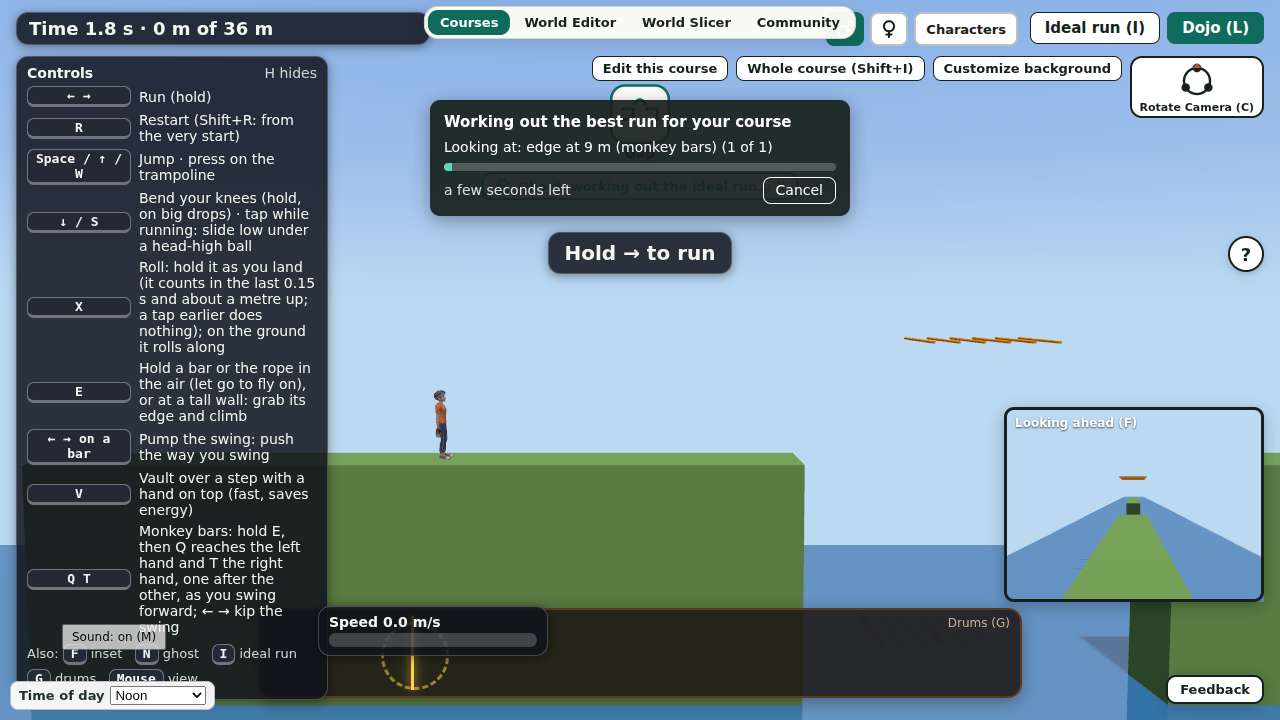
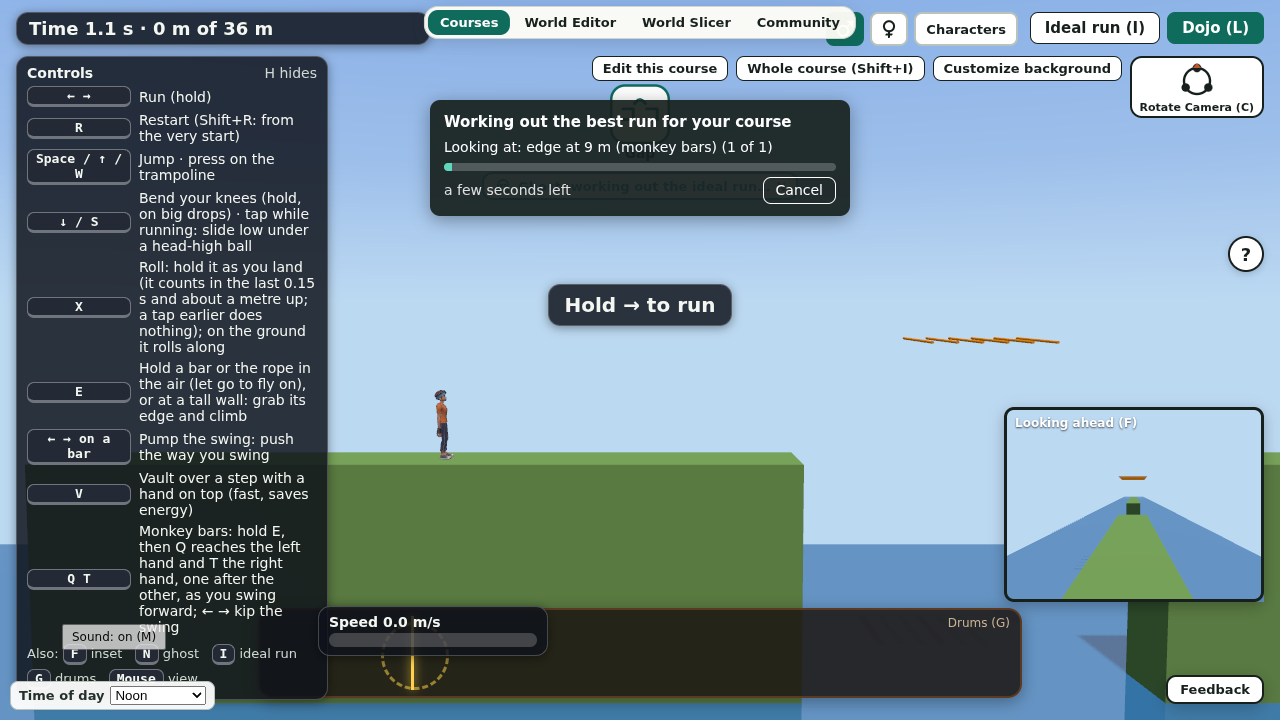
Pole drum says Hold E to climb the pole, fork drums always on, toasts as N-back with N=2
- The drum lane draws both ways of a fork without ?fork=1; the pole drum carries its words on a small card
- Toasts: current message in the main slot, the previous 2 dimmed above it (pure logic in nback.ts, tests)
- A toast takes the main slot over the hint, so nothing piles up below; history rows no longer restart their slide each frame

Part of CC-133

diff --git a/src/ui/hint-history.ts b/src/ui/hint-history.ts
@@ -1,30 +1,38 @@
-// The hint history: the current hint stays where it is; the hints before it sit just under it in the sky band (CC-133), dimmer the older they are, then fade away.
-// It only reads the hint text; it never changes the hint.
+// The message history, drawn (CC-133): the 2 messages before the current one sit dimmed above it in the sky band, the older the dimmer (the N-back logic is in nback.ts).
+// It only reads the message text; it never changes the hint. The two rows keep their space even when empty, so the main slot never jumps.
 import { toastBand } from './toast-band';
+import { nbackPush, nbackRows, nbackStart, NBACK_N, type NBackState } from './nback';
 
 export interface HintHistory { update(current: string, hintEl: HTMLElement, nowMs: number): void }
-const KEEP = 1, LIFE_MS = 9000, DIM = [0.6]; // one older line, one row tall: the band must stay above the runner's head
+export const HISTORY_ROW_PX = 22, HISTORY_GAP_PX = 2;
+export const HISTORY_HEIGHT_PX = NBACK_N * HISTORY_ROW_PX + (NBACK_N - 1) * HISTORY_GAP_PX; // the space the dimmed rows keep above the main slot
 
 export function createHintHistory(parent: HTMLElement = toastBand()): HintHistory {
+  const style = document.createElement('style');
+  style.textContent = '@keyframes nbin{from{opacity:0;transform:translateY(24px)}to{transform:translateY(0)}}';
+  document.head.append(style);
   const box = document.createElement('div');
   box.id = 'toast-history';
-  box.style.cssText = 'order:2;display:flex;flex-direction:column;align-items:center;gap:4px;pointer-events:none;font:600 15px system-ui,sans-serif;color:#10141c;max-width:100%';
+  box.style.cssText = `order:-1;display:flex;flex-direction:column;justify-content:flex-end;align-items:center;gap:${HISTORY_GAP_PX}px;height:${HISTORY_HEIGHT_PX}px;overflow:hidden;pointer-events:none;font:600 13px system-ui,sans-serif;color:#10141c;max-width:100%;width:100%`;
   parent.append(box);
-  let shown = '';
-  let old: { text: string; at: number }[] = []; // newest last
+  const nodes = new Map<number, HTMLElement>();
+  let s: NBackState = nbackStart();
   return {
     update(current, _hintEl, nowMs) {
-      if (current !== shown) {
-        if (shown) old.push({ text: shown, at: nowMs });
-        old = old.slice(-KEEP);
-        shown = current;
+      s = nbackPush(s, current, nowMs);
+      const rows = nbackRows(s, nowMs); // oldest first: the oldest is the top row
+      const keep = new Set(rows.map((r) => r.id));
+      for (const [id, n] of nodes) if (!keep.has(id)) { n.remove(); nodes.delete(id); }
+      for (const r of rows) {
+        let n = nodes.get(r.id);
+        if (!n) {
+          n = document.createElement('div'); n.textContent = r.text;
+          n.style.cssText = `background:#fffc;border-radius:8px;padding:0 12px;height:${HISTORY_ROW_PX}px;line-height:${HISTORY_ROW_PX}px;white-space:nowrap;overflow:hidden;text-overflow:ellipsis;max-width:100%;text-align:center;box-sizing:border-box;flex:none;animation:nbin .35s ease-out;transition:opacity .35s`;
+          nodes.set(r.id, n);
+          box.append(n); // a new row is always the newest: it joins at the bottom, just above the main slot (never re-appended, or its slide would restart each frame)
+        }
+        n.style.opacity = String(r.opacity);
       }
-      old = old.filter((o) => nowMs - o.at < LIFE_MS && o.text !== current);
-      const rows = old.slice().reverse(); // nearest the current first
-      if (box.childElementCount !== rows.length || Array.from(box.children).some((c, i) => c.textContent !== rows[i].text)) {
-        box.replaceChildren(...rows.map((o) => { const d = document.createElement('div'); d.textContent = o.text; d.style.cssText = 'background:#fffc;border-radius:8px;padding:4px 12px;white-space:nowrap;overflow:hidden;text-overflow:ellipsis;max-width:100%;text-align:center'; return d; }));
-      }
-      Array.from(box.children).forEach((c, i) => { (c as HTMLElement).style.opacity = String(DIM[i] * Math.max(0.3, 1 - (nowMs - rows[i].at) / LIFE_MS)); });
     },
   };
 }

diff --git a/tests/toast-band.test.ts b/tests/toast-band.test.ts
@@ -2,10 +2,12 @@
 import { describe, expect, it } from 'vitest';
 import { readFileSync } from 'node:fs';
 import * as THREE from 'three';
+import { HISTORY_HEIGHT_PX } from '../src/ui/hint-history';
 import { toastBandBox, TOAST_TOP, TOAST_BAND_BOTTOM } from '../src/ui/toast-band';
 
 const W = 1280, H = 720;
 const box = toastBandBox(W, H);
+const lineBox = { ...box, bottom: box.top + HISTORY_HEIGHT_PX + 6 + 42 }; // the dimmed rows, the band gap and a one-line message (about 42 px)
 
 // The side camera (src/modes/course/camera.ts): target 5 m ahead of the runner and 2.5 m above his feet, 25 m back and 1.5 m up (scaled by the zoom), 40 degree view.
 // `lag`: how far the camera's height still trails the runner's (it eases with 0.15 s, so a quick rise leaves it behind).
@@ -25,13 +27,17 @@ const meets = (a: { left: number; right: number; top: number; bottom: number }, 
 describe('toast band', () => {
   it('sits in the top band of the window at 1280 x 720', () => {
     expect(box.top).toBeLessThanOrEqual(0.34 * H); // the top third at most: the strip and the ghost chip take the first 225 px
-    expect(box.bottom).toBeLessThanOrEqual(0.44 * H + 1e-9);
+    expect(box.bottom).toBeLessThanOrEqual(0.5 * H + 1e-9);
     expect(box.top).toBeGreaterThanOrEqual(226); // under the strip and the ghost chip (it ends at 225)
     expect(box.left).toBeGreaterThan(330); // right of the controls card (it ends at about x = 328)
     expect(box.right).toBeLessThan(W - 250); // left of the buttons
   });
   it('is centred and never wider than the window', () => {
     for (const vw of [1280, 1024]) { const b = toastBandBox(vw, 720); expect((b.left + b.right) / 2).toBeCloseTo(vw / 2); expect(b.right - b.left).toBeLessThanOrEqual(vw * 0.92 + 1e-9); }
+  });
+  it('keeps room for the 2 dimmed rows above the main slot, which then ends above the runner', () => {
+    const mainTop = box.top + HISTORY_HEIGHT_PX + 6, twoLines = 2 * 25 + 16;
+    expect(mainTop + twoLines).toBeLessThanOrEqual(box.bottom + 1e-9);
   });
   it('is one shared place: the hint, the toast stack and the hint history all join the band, none sets its own position', () => {
     for (const f of ['src/modes/course/hud.ts', 'src/ui/toast-stack.ts', 'src/ui/hint-history.ts', 'src/modes/course/say.ts', 'src/ui/bars-keys.ts']) {
@@ -42,7 +48,8 @@ describe('toast band', () => {
     expect(readFileSync('src/ui/hint-history.ts', 'utf8')).toContain('toastBand()');
     expect(readFileSync('src/modes/course/chrome.ts', 'utf8')).toContain('toastBand().append(d.hud.hint)');
     expect(TOAST_TOP).toMatch(/px$/);
-    expect(TOAST_BAND_BOTTOM).toBeLessThanOrEqual(0.44);
+    expect(TOAST_BAND_BOTTOM).toBeLessThanOrEqual(0.5);
+    expect(readFileSync('src/ui/hint-history.ts', 'utf8')).toContain('nbackPush'); // the history is drawn from the pure N-back logic
   });
   const states: [string, number, { zoom?: number; lag?: number; pitch?: number }][] = [
     ['on the ground, normal view', 0, {}],
@@ -57,7 +64,9 @@ describe('toast band', () => {
   for (const [name, y, o] of states) {
     it(`never meets the runner: ${name}`, () => {
       const r = runnerBox(y, o);
-      expect(meets(box, r), JSON.stringify({ box, r })).toBe(false);
+      expect(meets(lineBox, r), JSON.stringify({ lineBox, r })).toBe(false); // the two dimmed rows and a one-line message
+      if (!/camera low|catching up/.test(name)) expect(meets(box, r), JSON.stringify({ box, r })).toBe(false); // ... and a two-line message, except in the two extreme camera states
+
     });
   }
 });

diff --git a/tests/nback.test.ts b/tests/nback.test.ts
@@ -1,0 +1,53 @@
+// CC-133: the toasts are "N-back with N = 2": the message now in the main slot, the 2 before it dimmed above it.
+import { describe, expect, it } from 'vitest';
+import { nbackPush, nbackRows, nbackStart, NBACK_DIM, NBACK_LIFE_MS, NBACK_N } from '../src/ui/nback';
+
+const feed = (texts: string[], at0 = 0, step = 1000) => texts.reduce((s, t, i) => nbackPush(s, t, at0 + i * step), nbackStart());
+
+describe('N-back toasts (N = 2)', () => {
+  it('N is 2', () => expect(NBACK_N).toBe(2));
+  it('the first message sits in the main slot with nothing above it', () => {
+    const s = feed(['A']);
+    expect(s.current).toBe('A');
+    expect(nbackRows(s, 0)).toEqual([]);
+  });
+  it('a new message dims the current one and moves it up a slot', () => {
+    const s = feed(['A', 'B']);
+    expect(s.current).toBe('B');
+    expect(nbackRows(s, 1000).map((r) => [r.text, r.slot])).toEqual([['A', 1]]);
+  });
+  it('the previous 2 are kept, the oldest drops off, the new one takes the main slot', () => {
+    const s = feed(['A', 'B', 'C', 'D']);
+    expect(s.current).toBe('D');
+    expect(nbackRows(s, 3000).map((r) => [r.text, r.slot])).toEqual([['B', 2], ['C', 1]]); // top to bottom: the older one first
+  });
+  it('never more than N rows above the main slot, whatever arrives', () => {
+    const s = feed(Array.from({ length: 12 }, (_, i) => `m${i}`));
+    expect(nbackRows(s, 11000).length).toBeLessThanOrEqual(NBACK_N);
+  });
+  it('the older, the dimmer, and both dimmer than the main message (opacity 1)', () => {
+    const rows = nbackRows(feed(['A', 'B', 'C']), 2000);
+    const o = (slot: number) => rows.find((r) => r.slot === slot)!.opacity;
+    expect(o(2)).toBeLessThan(o(1));
+    expect(o(1)).toBeLessThan(1);
+    expect(NBACK_DIM[0]).toBeGreaterThan(NBACK_DIM[1]);
+  });
+  it('the same message again changes nothing, and a message that comes back is current, not also a dimmed copy', () => {
+    const s = feed(['A', 'B']);
+    expect(nbackPush(s, 'B', 5000)).toBe(s);
+    const back = nbackPush(s, 'A', 2000);
+    expect(back.current).toBe('A');
+    expect(nbackRows(back, 2000).map((r) => r.text)).toEqual(['B']);
+  });
+  it('an empty screen keeps the last message dimmed, then it fades away', () => {
+    const s = feed(['A', '']);
+    expect(s.current).toBe('');
+    expect(nbackRows(s, 1000).map((r) => r.text)).toEqual(['A']);
+    expect(nbackRows(s, 1000 + NBACK_LIFE_MS)).toEqual([]);
+  });
+  it('rows keep their id as they move up, so the view can slide them', () => {
+    const a = feed(['A', 'B']), b = nbackPush(a, 'C', 2000);
+    expect(nbackRows(b, 2000).find((r) => r.text === 'A')!.id).toBe(nbackRows(a, 1000)[0].id);
+    expect(nbackRows(b, 2000).find((r) => r.text === 'A')!.slot).toBe(2);
+  });
+});

diff --git a/src/ui/nback.ts b/src/ui/nback.ts
@@ -1,0 +1,31 @@
+// CC-133: the toasts show "N-back with N = 2": the message now is in the main slot, the 2 messages before it sit dimmed above it
+// (the older, the dimmer). A new message dims the one on screen and moves it up a slot; the oldest drops off; the new one takes the main slot.
+// Pure: time is passed in, so a test or the stepped clock decides when. The DOM view is in hint-history.ts.
+export const NBACK_N = 2;
+export const NBACK_LIFE_MS = 9000; // a dimmed message fades away this long after it was replaced
+export const NBACK_DIM = [0.62, 0.34]; // opacity of the newest and the older previous message
+
+export interface NBackItem { id: number; text: string; at: number }
+export interface NBackState { current: string; prev: NBackItem[]; nextId: number } // prev: oldest first
+
+export const nbackStart = (): NBackState => ({ current: '', prev: [], nextId: 1 });
+
+/** A message arrives (an empty text means nothing is on screen now). The same text again changes nothing. */
+export function nbackPush(s: NBackState, text: string, now: number): NBackState {
+  if (text === s.current) return s;
+  let prev = s.prev.filter((p) => p.text !== text); // a message that comes back is current again, not also a dimmed copy
+  let nextId = s.nextId;
+  if (s.current) { prev = [...prev.filter((p) => p.text !== s.current), { id: nextId++, text: s.current, at: now }]; }
+  return { current: text, prev: prev.slice(-NBACK_N), nextId };
+}
+
+export interface NBackRow { id: number; text: string; opacity: number; slot: number } // slot 1 = just above the main slot, 2 = the one above that
+
+/** The dimmed rows, top to bottom, with their opacity at time `now`; rows older than the life are gone. */
+export function nbackRows(s: NBackState, now: number): NBackRow[] {
+  const live = s.prev.filter((p) => now - p.at < NBACK_LIFE_MS);
+  return live.map((p) => {
+    const slot = s.prev.length - s.prev.indexOf(p); // 1 = newest
+    return { id: p.id, text: p.text, slot, opacity: NBACK_DIM[slot - 1] * Math.max(0.3, 1 - (now - p.at) / NBACK_LIFE_MS) };
+  });
+}

diff --git a/src/sim/drums.ts b/src/sim/drums.ts
@@ -8,6 +8,7 @@ import { newWorld, stepWorld, WALL_HOLD_TICKS } from './world';
 
 // The drum lane: where along the course the ideal run presses Space, so a player can see where to jump on any course,
 // including one built in the editor. It shows the line; it never grades the player's own presses.
+export const POLE_NOTE = 'Hold E to climb the pole'; // shown on the drum itself (CC-133)
 export interface Drum {
   x: number; // m along the course at the moment of the press
   note?: string; // a few words on the drum (the aim of a cannon)
@@ -50,7 +51,7 @@ export function drumsFor(course: CourseData, plan: Plan = course.plan ?? searchI
     if (w.mode !== 'wall') wallDrum = false;
     else if (!wallDrum && w.wall && w.wall.result.grabTick !== null && w.wall.index >= w.wall.result.grabTick - WALL_HOLD_TICKS) { wallDrum = true; drums.push({ x: w.runner.x, what: 'grab' }); }
     if (prevMode !== 'swing' && w.mode === 'swing') drums.push({ x: w.runner.x, what: 'grab' }); // E closes on the rope
-    if (prevMode !== 'polec' && w.mode === 'polec') drums.push({ x: w.runner.x, what: 'grab' }); // E closes on a standing pole (CC-133: the bulb lane of the fork starts with one)
+    if (prevMode !== 'polec' && w.mode === 'polec') drums.push({ x: w.runner.x, what: 'grab', note: POLE_NOTE }); // E closes on a standing pole (CC-133: the bulb lane of the fork starts with one)
     if (prevMode !== 'hang' && prevMode !== 'polec' && w.mode === 'hang') drums.push({ x: w.runner.x, what: 'grab' }); // E closes on the bar (from the top of a pole the hands are already closed)
     if (prevMode !== 'climb' && w.mode === 'climb') drums.push({ x: w.runner.x, what: 'grab' }); // E closes on a wall's edge
     if ((prevMode === 'hang' && w.mode !== 'hang') || (prevMode === 'swing' && w.mode !== 'swing')) drums.push({ x: w.runner.x, what: 'release' }); // both hands let go (a bar, or the rope: letting go of E, CC-245)

diff --git a/tests/obstacle-teaching.test.ts b/tests/obstacle-teaching.test.ts
@@ -4,7 +4,7 @@ import { describe, expect, it } from 'vitest';
 import { readFileSync, readdirSync, statSync } from 'node:fs';
 import { join } from 'node:path';
 import { TOASTS } from '../src/course/obstacles';
-import { drumsForPaths } from '../src/sim/drums';
+import { drumsForPaths, POLE_NOTE } from '../src/sim/drums';
 import { toastsFor, approachToast } from '../src/ui/approach-toast';
 import type { CourseData } from '../src/course/course';
 
@@ -75,5 +75,17 @@ describe('the fork course: both ways are taught', () => {
   it('does not turn a bench-way jump into a bar toast because a bulb-way bar is near', () => {
     const toasts = toastsFor(c, drums);
     expect(toasts.filter((q) => q.kind === 'lache')).toEqual([]);
+  });
+  it('the drum on the pole says what to do, on the bulb way only (the owner saw no instruction on the drums)', () => {
+    const pole = drums.filter((d) => d.what === 'grab' && d.note === POLE_NOTE);
+    expect(POLE_NOTE).toBe('Hold E to climb the pole');
+    expect(pole).toHaveLength(1);
+    expect(pole[0].route).toBeTruthy(); // it sits in the bulb way's row, not the shared middle row
+    expect(pole[0].x).toBeLessThan(c.climbPoles![0].x + 0.5);
+    expect(pole[0].x).toBeGreaterThan(c.climbPoles![0].x - 3);
+  });
+  it('the drum lane draws the fork drums whenever a course has a fork, not only behind ?fork=1', () => {
+    const src = readFileSync('src/modes/course/drums.ts', 'utf8');
+    expect(src).toMatch(/pathsOn\(params\) \|\| course\.branches\?\.length \? drumsForPaths\(course\)/);
   });
 });

diff --git a/src/modes/course.ts b/src/modes/course.ts
@@ -376,8 +376,9 @@ export async function startCourse(host: HTMLElement, course: CourseData = defaul
     views.update(st.world, facing);
     const reportOpen = panel.style.display !== 'none'; // CC-191: while a report is open the hint, the controls card, the ghost chip and the second Edit button step aside
     hint.textContent = reportOpen ? '' : hintFor(st.world);
-    hint.style.display = hint.textContent ? 'block' : 'none';
-    toastStack.update(hint.textContent ?? '', hint, performance.now());
+    const sayNow = reportOpen ? '' : sayer.current(); // CC-133: one message in the main slot: a toast takes it over the hint, and the hint comes back after
+    hint.style.display = hint.textContent && !sayNow ? 'block' : 'none';
+    toastStack.update(sayNow || (hint.textContent ?? ''), hint, performance.now());
     barsKeys.update(st.world, course);
     if (reportOpen !== reportWas) { reportWas = reportOpen; if (reportOpen) help.style.visibility = 'hidden'; else if (!document.getElementById('helpmenu')) help.style.visibility = ''; rowBtns.style.visibility = reportOpen ? 'hidden' : ''; const gh = document.getElementById('ghost-hud'); if (gh) gh.style.visibility = reportOpen ? 'hidden' : ''; }
     msg.textContent = st.paused && !studioHold ? 'Back from the Dojo. Press any key to carry on.' : st.world.outcome === 'cleared' ? 'You made it! Press R to run it again.' : st.idealNote;

diff --git a/src/ui/drum-lane.ts b/src/ui/drum-lane.ts
@@ -40,7 +40,9 @@ export function createDrumLane(parent: HTMLElement, on: boolean): DrumLane {
     const row = d.route ? ways.indexOf(d.route) : -1; // a drum of one way sits in its own row (CC-225); a shared drum stays in the middle
     const size = row >= 0 ? 38 : 54;
     e.style.cssText = `position:absolute;top:${row < 0 ? 50 : row === 0 ? 27 : 73}%;width:${size}px;height:${size}px;margin:${-size / 2}px 0 0 ${-size / 2}px;`+'border-radius:50%;background:radial-gradient(circle at 50% 45%,#fff3d6 0 52%,#c8382a 54% 100%);border:3px solid #7d1f16;display:grid;place-items:center;color:#5a1a10;font:800 11px system-ui,sans-serif;text-align:center;line-height:1';
-    e.innerHTML = `<span>${LABEL[d.what]}${d.note ? `<br><small>${d.note}</small>` : ''}</span>`;
+    const long = !!d.note && d.note.length > 8; // a sentence on a drum (the pole's "Hold E to climb the pole") gets a small card of two lines, not a circle
+    if (long) { e.style.width = '92px'; e.style.borderRadius = '14px'; e.style.padding = '0 3px'; e.style.background = '#fff3d6'; e.style.font = '800 10.5px/1.05 system-ui,sans-serif'; e.style.zIndex = '2'; } // two short lines, about as wide as two drums, so the drums beside it stay readable
+    e.innerHTML = long ? `<span>${d.note}</span>` : `<span>${LABEL[d.what]}${d.note ? `<br><small>${d.note}</small>` : ''}</span>`;
     root.appendChild(e);
     return e;
   };

diff --git a/src/ui/bars-keys.ts b/src/ui/bars-keys.ts
@@ -8,7 +8,7 @@ import { toastBand } from './toast-band';
 export function createBarsKeys(parent: HTMLElement = toastBand()): { update(w: WorldState, course: CourseData): void } {
   const box = document.createElement('div');
   box.id = 'bars-keys';
-  box.style.cssText = 'order:-1;display:none;gap:14px;align-items:center;pointer-events:none;font:600 15px system-ui,sans-serif;color:#10141c;background:#fffd;border-radius:12px;padding:8px 14px;z-index:5';
+  box.style.cssText = 'order:-2;display:none;gap:14px;align-items:center;pointer-events:none;font:600 15px system-ui,sans-serif;color:#10141c;background:#fffd;border-radius:12px;padding:8px 14px;z-index:5';
   const cap = (k: string, who: string) => { const d = document.createElement('div'); d.style.cssText = 'display:flex;flex-direction:column;align-items:center;min-width:92px;border-radius:8px;padding:4px 10px;border:2px solid #10141c33'; const a = document.createElement('div'); a.textContent = k; a.style.cssText = 'font-size:26px;font-weight:800'; const b = document.createElement('div'); b.textContent = who; d.append(a, b); return d; };
   const q = cap('Q', 'left hand'), t = cap('T', 'right hand'), note = document.createElement('div');
   note.style.cssText = 'max-width:230px;font-weight:500;font-size:13px';

diff --git a/src/ui/toast-band.ts b/src/ui/toast-band.ts
@@ -6,7 +6,7 @@ export const TOAST_TOP_VAR = '--cc-toast-top';
 export const TOAST_TOP = '232px'; // under the obstacle strip (92 to 165 px with the next icon grown) and the ghost chip with its gap line (172 to 225 px), clear of the time line (left) and the buttons (right)
 export const TOAST_BAND_ID = 'toast-band';
 export const TOAST_BAND_WIDTH = 600; // px, the widest a message gets
-export const TOAST_BAND_BOTTOM = 0.44; // share of the window height: a hint and a toast fit above this line, which the runner never reaches (head at about 0.54, about 0.46 when the camera trails)
+export const TOAST_BAND_BOTTOM = 0.5; // share of the window height: the two dimmed rows (55 px) and a two-line message fit above this line, which the runner never reaches (head at about 0.54, about 0.46 when the camera trails)
 
 /** The band's box in a window of vw x vh pixels (pure, so a test can put it next to the runner's box). */
 export function toastBandBox(vw: number, vh: number): { left: number; top: number; right: number; bottom: number } {

diff --git a/src/modes/course/drums.ts b/src/modes/course/drums.ts
@@ -20,7 +20,7 @@ export function mountDrums(c: DrumsCtx) {
   let toastDrums: Drum[] = []; // the same drums as the key strip: each obstacle's toast starts a fixed lead before its key (CC-195)
   const showDrums = (result: { plan: Plan; cleared: boolean }): void => {
     try {
-      const forkDrums = pathsOn(params) ? drumsForPaths(course) : null; // CC-225: both ways of a fork, each in its own row
+      const forkDrums = pathsOn(params) || course.branches?.length ? drumsForPaths(course) : null; // CC-225: both ways of a fork, each in its own row (CC-133: always on a course with a fork, so the high way has its drums too)
       const fb = branchesOf(course)[0];
       const drums = forkDrums ?? (result.cleared ? drumsFor(course, result.plan) : []);
       drumLane.set(drums, forkDrums && fb ? [{ x: fb.forkX, label: `Fork: top ${fb.routes[0].name.split(':')[0]}, bottom ${fb.routes[1].name.split(':')[0]}` }, { x: fb.joinX, label: 'Join' }] : []);

diff --git a/src/ui/toast-stack.ts b/src/ui/toast-stack.ts
@@ -36,6 +36,7 @@ export class ToastQueue {
 
 const CSS = `#toasts{order:1;display:flex;flex-direction:column;align-items:center;gap:8px;pointer-events:none;width:100%}
 #toasts .toast{font:700 18px/1.25 system-ui,sans-serif;color:#10141c;background:#fffffff0;border-radius:10px;padding:6px 14px;text-align:center;box-shadow:0 2px 10px #0002;max-width:100%;box-sizing:border-box;transition:transform .45s ease-in,opacity .45s ease-in,margin .45s ease-in;opacity:1;transform:translateY(0)}
+#toasts .toast:not(:last-child){display:none} /* CC-133: one toast in the main slot; the ones before it live on in the dimmed history above */
 #toasts .toast.in{animation:toastin .25s ease-out}
 #toasts .toast.leaving{transform:translateY(-34px);opacity:0}
 @keyframes toastin{from{opacity:0;transform:translateY(14px)}to{opacity:1;transform:translateY(0)}}`;
